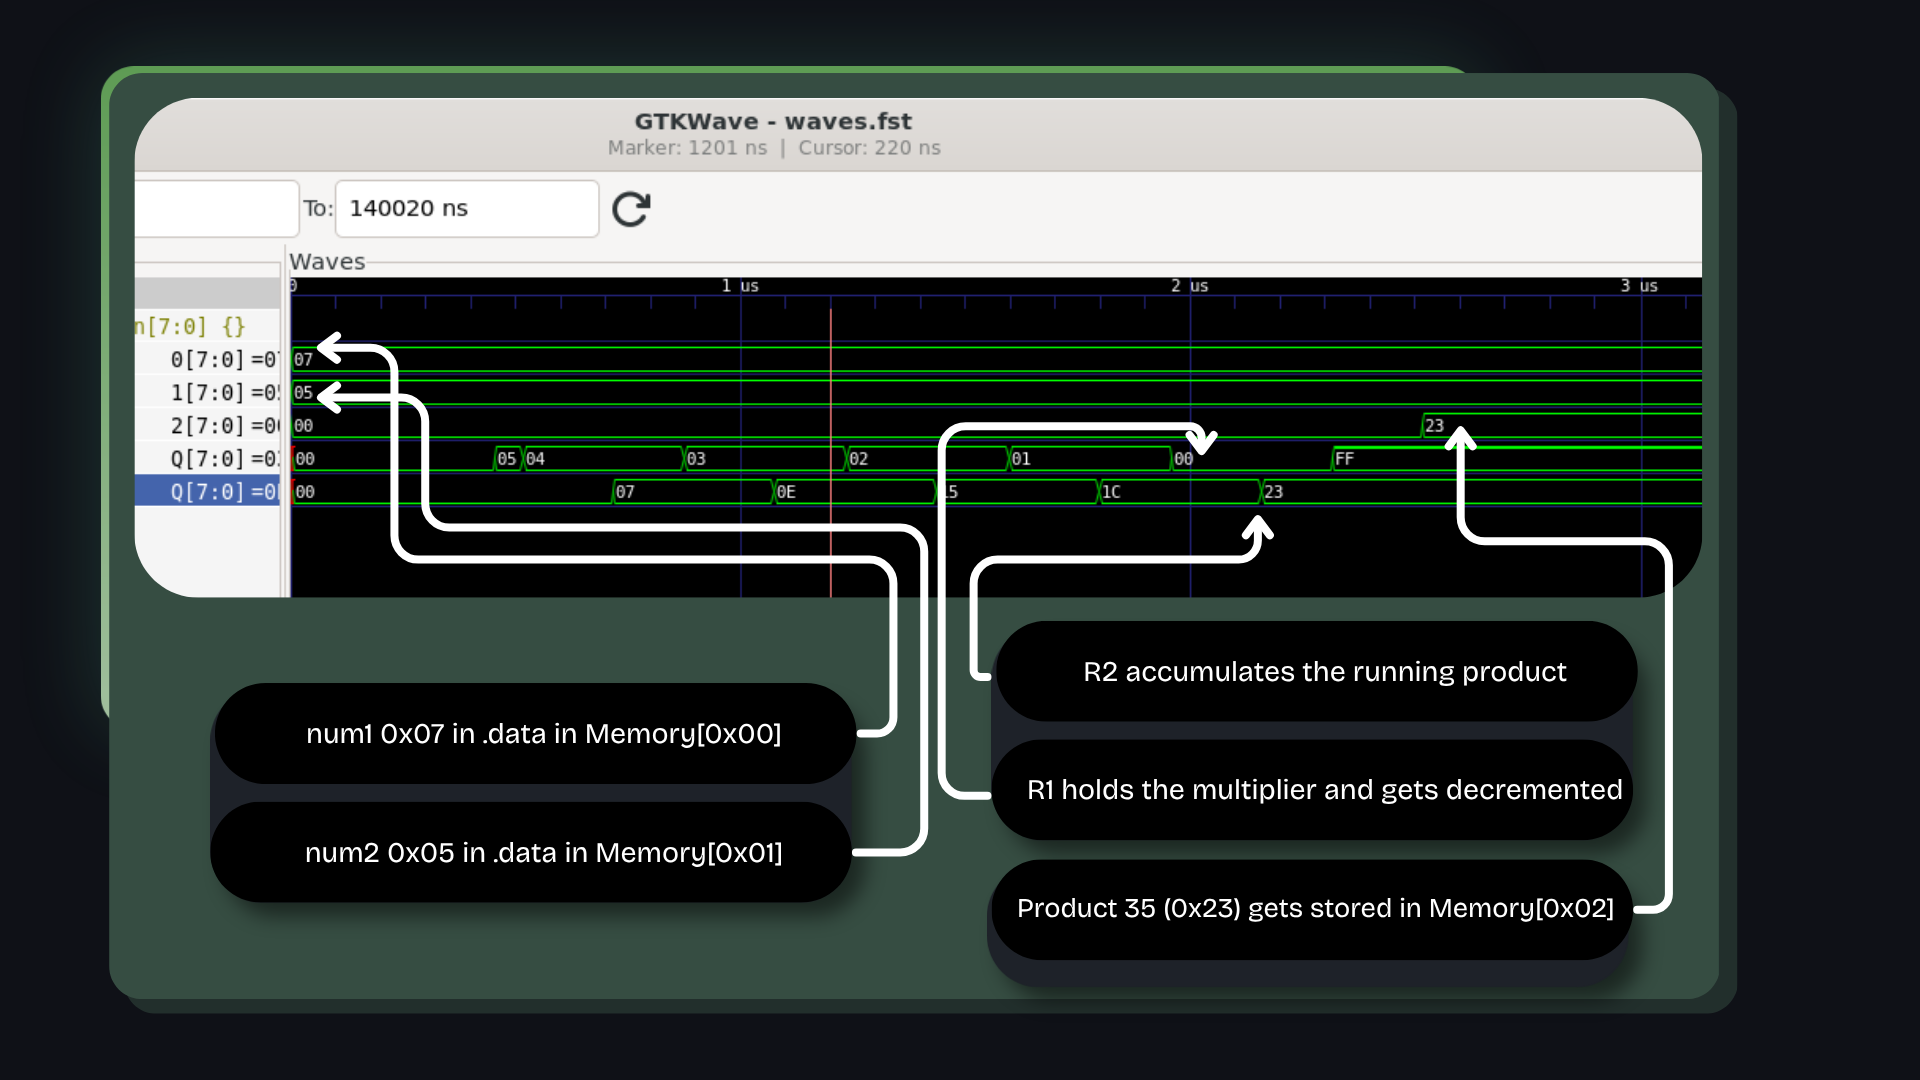
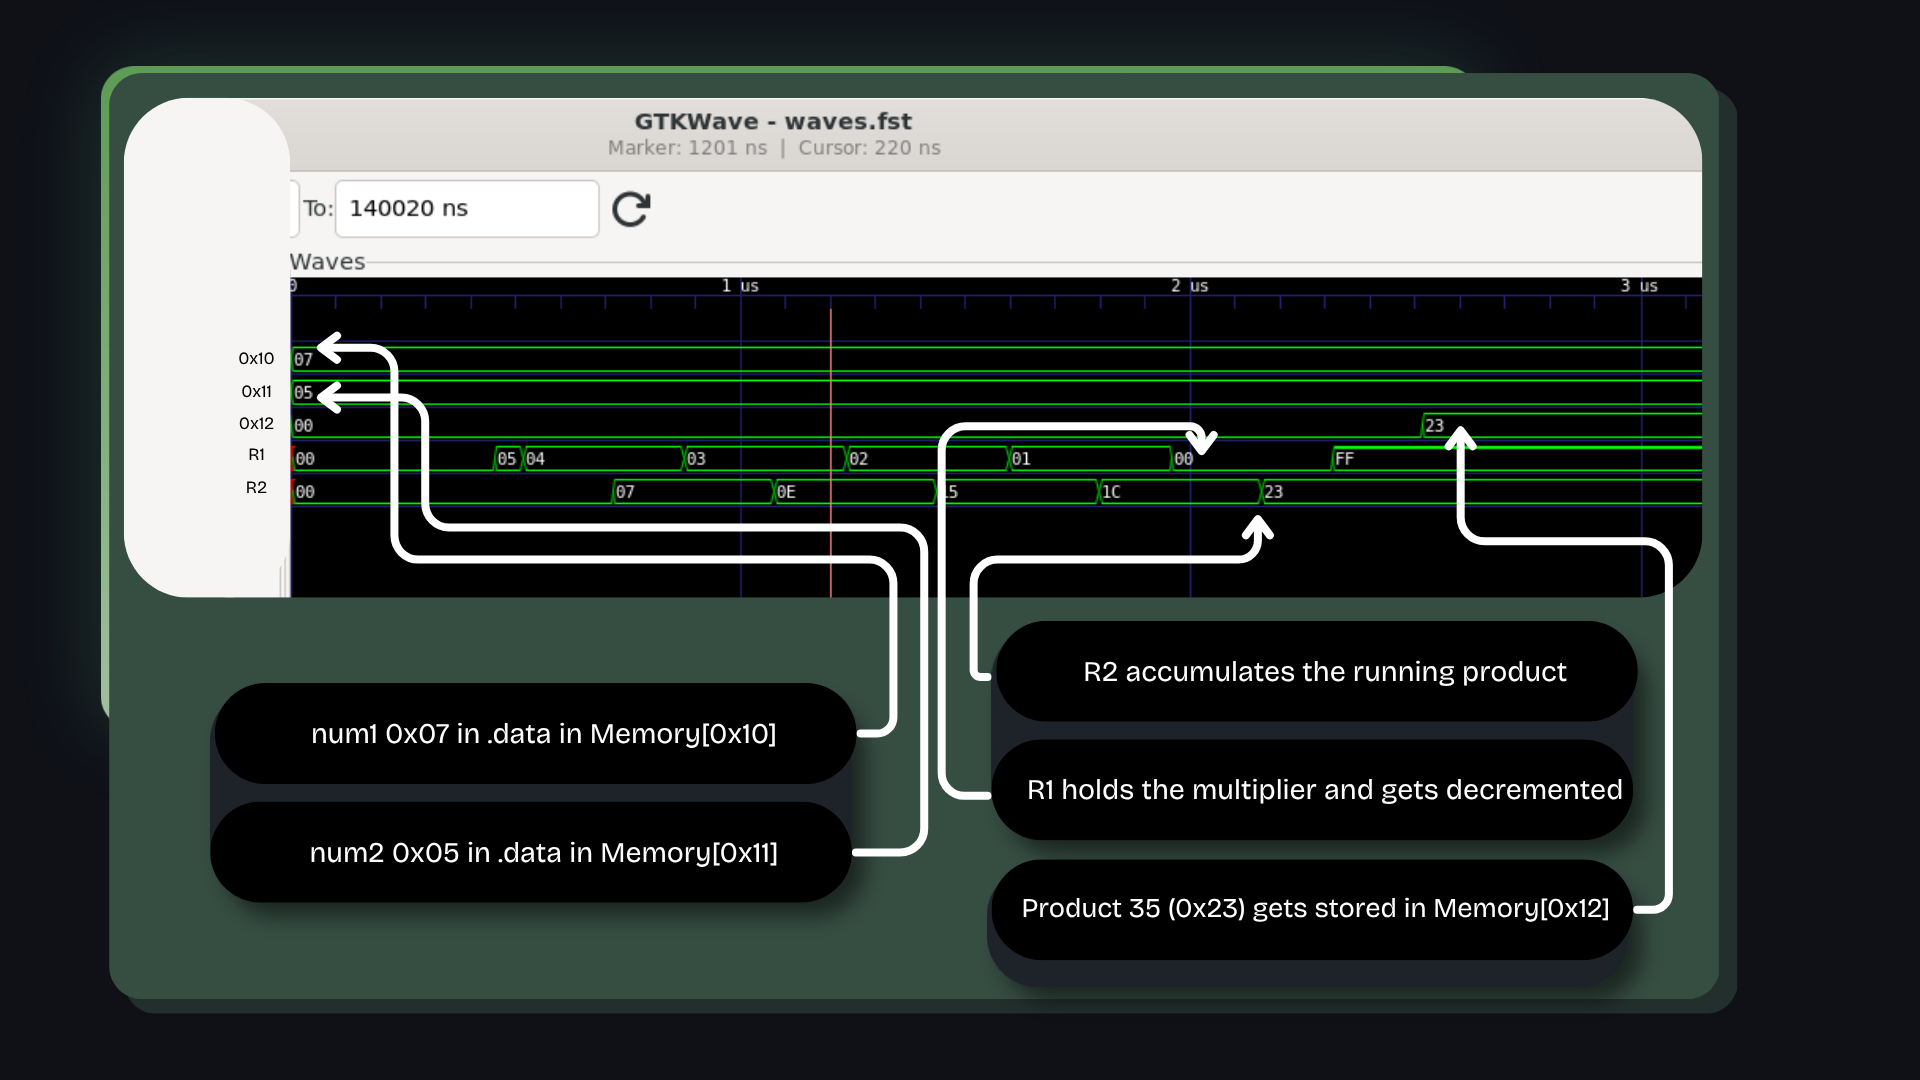
Fixed major assembler bug

diff --git a/Assembler/assembler_complete.py b/Assembler/assembler_complete.py
@@ -10,6 +10,8 @@ import json
 #For now, it is case sensitive ;(
 #Recently added support for labels
 
+#NOTE: writes in order: .text -> .data -> .bss
+
 #
 #
 #
@@ -133,35 +135,6 @@ symbol_table = {} #creating the symbol table for all the mapping
 
 
 
-#############PARSING of .data (INITIALIZED)
-
-
-
-
-for cur_ins in data_lines:
-    var_name = cur_ins[0]
-    var_value = int(cur_ins[1], 0)
-
-    symbol_table[var_name] = cur_address
-    output_file.write(f"{var_value:02X}\n")
-    cur_address += 1
-
-
-
-
-#############PARSING of .bss (Block Started by Symbol) (UNINITIALIZED)
-
-for cur_ins in bss_lines:
-    var_name = cur_ins[0]
-    space_reserve = int(cur_ins[1], 0)
-
-    symbol_table[var_name] = cur_address #continous from data's address locations
-
-    for i in range(space_reserve):
-        output_file.write("00\n")
-        cur_address +=1
-
-
 
 ############LABEL MAPPING
 for cur_ins in text_lines:
@@ -195,7 +168,33 @@ for cur_ins in text_lines:
     
 
 
-#############PARSING of .text
+#############PARSING (NO WRITING) of .data (INITIALIZED)
+
+
+
+
+for cur_ins in data_lines:
+    var_name = cur_ins[0]
+
+    symbol_table[var_name] = cur_address
+    cur_address += 1
+
+
+
+
+#############PARSING (NO WRITING) of .bss (Block Started by Symbol) (UNINITIALIZED)
+
+for cur_ins in bss_lines:
+    var_name = cur_ins[0]
+    space_reserve = int(cur_ins[1], 0)
+
+    symbol_table[var_name] = cur_address #continous from data's address locations
+
+    ##change: now it doesn't write until later, after .text is written
+    cur_address += space_reserve
+
+
+#############PARSING & WRITING of .text
 
 
 for cur_ins in text_lines:
@@ -300,6 +299,25 @@ for cur_ins in text_lines:
 
         output_file.write(f"{byte1:02X}\n")
     
+
+
+
+
+########WRITING of .data
+
+for cur_ins in data_lines:
+    var_value = int(cur_ins[1], 0)
+
+    output_file.write(f"{var_value:02X}\n")
+
+
+########WRITING of .bss
+
+for cur_ins in bss_lines:
+    space_reserve = int(cur_ins[1], 0)
+
+    for i in range(space_reserve):
+        output_file.write("00\n")
 
 output_file.close()
 

diff --git a/README.md b/README.md
@@ -174,6 +174,8 @@ It translates assembly code into machine code and generates a memory initializat
 - <code>.bss</code>: reserved uninitialized memory space<br>
 - <code>.text</code>: executable instructions<br><br>
 
+**Note:** writes in order: .text → .data → .bss
+
 <b>Comments</b><br>
 - Anything after <code>#</code> is ignored by the assembler<br><br>
 
@@ -218,13 +220,14 @@ LOAD R1, num2      # Load the multiplier into R1
 multiply_loop:
 DEC R1             # Decrement the multiplier (count--)
 BN end_loop        # If the result is negative (was 0 before DEC), exit loop
-ADD R2, R0         # Add the multiplicand (R0) to our running product (R2)
+ADD R2, R0         # Add the multiplicand (R0) to the running product (R2)
 BRANCH multiply_loop # Unconditional jump back up to repeat the loop
 
 ######## Program End
 end_loop:
 STORE R2, prod     # Store the final calculated product back into memory
-NOP                # Exit
+
+END: BRANCH END    #No hault, so just loop!
 </pre>
 
 ---
@@ -232,24 +235,26 @@ NOP                # Exit
 ## Assembler Output (Machine Code)
 
 <pre>
-07
-05
-00
 02
 18
-00
+10
 19
-01
+11
 E1
 58
-0F
+0C
 B2
 00
 68
-08
+05
 2A
-02
-F0
+12
+68
+0E
+07
+05
+00
+
 </pre>
 
 ---
@@ -276,7 +281,7 @@ The program computes:
 </pre>
 
 Result:<br>
-- Stored in <code>Memory[0x02]</code><br>
+- Stored in <code>Memory[0x12]</code><br>
 - Value = 35 (decimal)<br>
 - Accumulated in <code>R2</code><br><br>
 
